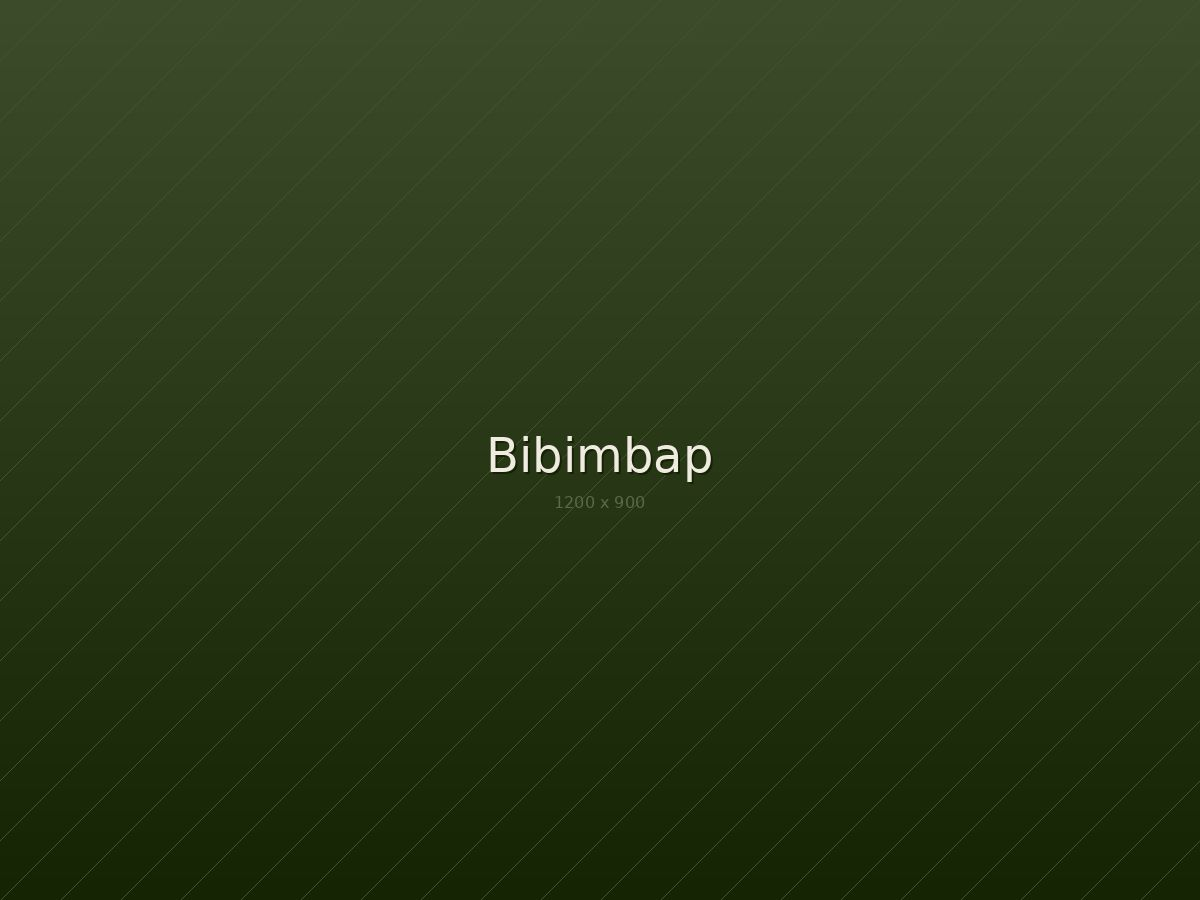
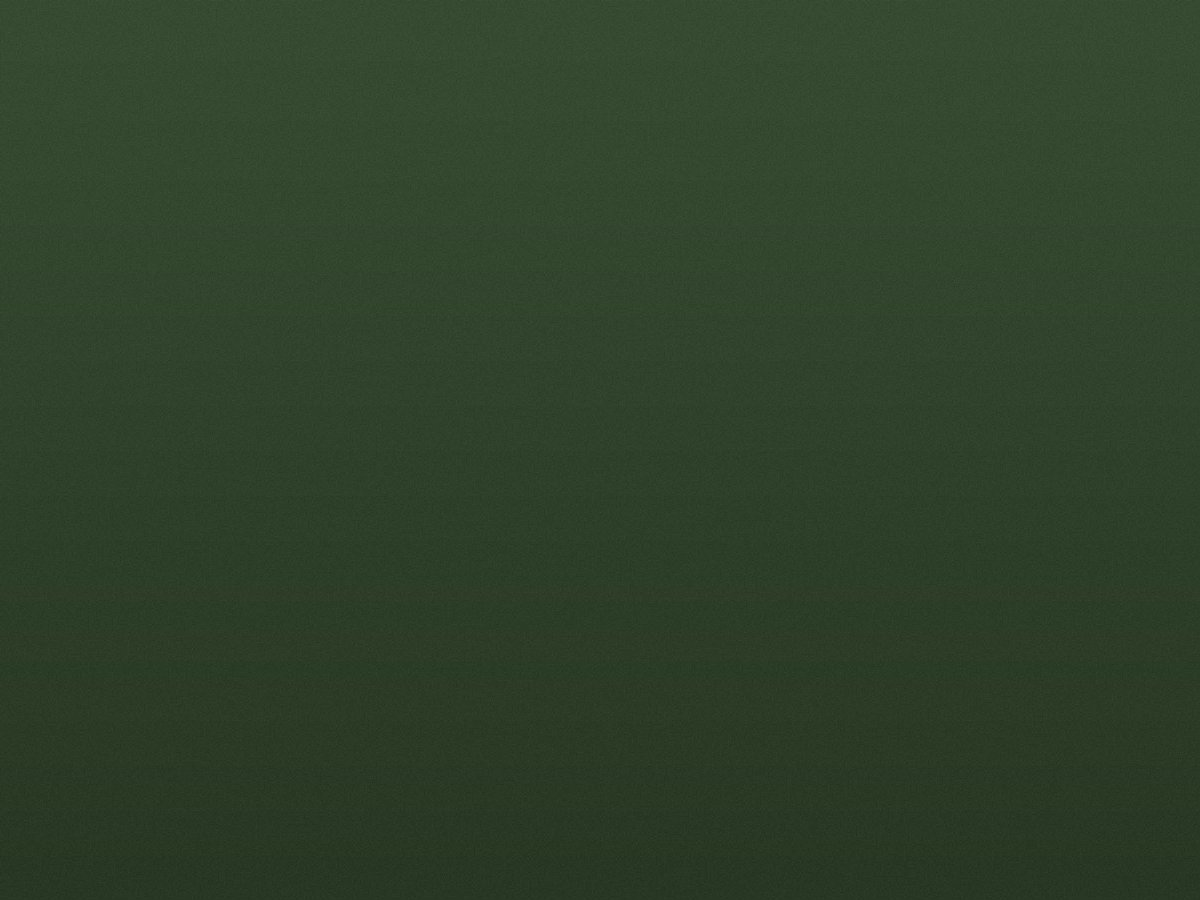
fix: critical CSS specificity + better placeholder images
ROOT CAUSE: * { margin: 0; padding: 0 } was outside @layer,
overriding ALL Tailwind utility classes (padding, margin, etc.)
because un-layered CSS has higher specificity than @layer in CSS.

- Move all custom base styles into @layer base
- Move utility classes into @layer utilities
- Remove the * { margin/padding: 0 } reset (Tailwind preflight handles it)
- Regenerate all placeholders as clean gradients (no text labels)
- Create proper logo (white text on transparent) for invert filter
- Create minimal icon shapes for cuisine categories

https://claude.ai/code/session_011vSXkvaHMkMXcfM511oVkU

diff --git a/app/globals.css b/app/globals.css
@@ -16,69 +16,75 @@
   --font-mono: "DM Mono", monospace;
 }
 
-:root {
-  --cream: #F0EBE0;
-  --cream2: #E4DDCF;
-  --sage: #8B9A6B;
-  --sage2: #6B7A50;
-  --olive: #5A6B3A;
-  --forest: #3A4A28;
-  --deep: #1E2D12;
-  --gold: #B8A455;
-  --gold2: #D4B840;
-  --ink: #1C2010;
+/* All custom styles in @layer base so they don't override Tailwind utilities */
+@layer base {
+  :root {
+    --cream: #F0EBE0;
+    --cream2: #E4DDCF;
+    --sage: #8B9A6B;
+    --sage2: #6B7A50;
+    --olive: #5A6B3A;
+    --forest: #3A4A28;
+    --deep: #1E2D12;
+    --gold: #B8A455;
+    --gold2: #D4B840;
+    --ink: #1C2010;
+  }
+
+  html {
+    scroll-behavior: smooth;
+    -webkit-text-size-adjust: 100%;
+  }
+
+  body {
+    background: var(--cream);
+    color: var(--forest);
+    font-family: var(--font-body);
+    overflow-x: hidden;
+    -webkit-font-smoothing: antialiased;
+    -moz-osx-font-smoothing: grayscale;
+  }
+
+  ::selection {
+    background: var(--olive);
+    color: var(--cream);
+  }
+
+  :focus-visible {
+    outline: 2px solid var(--gold2);
+    outline-offset: 2px;
+  }
+
+  ::-webkit-scrollbar {
+    width: 6px;
+  }
+  ::-webkit-scrollbar-track {
+    background: var(--cream2);
+  }
+  ::-webkit-scrollbar-thumb {
+    background: var(--sage);
+    border-radius: 3px;
+  }
 }
 
-* {
-  margin: 0;
-  padding: 0;
-  box-sizing: border-box;
-}
+/* Utilities in @layer utilities so they work alongside Tailwind */
+@layer utilities {
+  .scrollbar-hide {
+    -ms-overflow-style: none;
+    scrollbar-width: none;
+  }
+  .scrollbar-hide::-webkit-scrollbar {
+    display: none;
+  }
 
-html {
-  scroll-behavior: smooth;
-  -webkit-text-size-adjust: 100%;
-}
+  .scroll-progress {
+    transform-origin: left;
+    will-change: transform;
+  }
 
-body {
-  background: var(--cream);
-  color: var(--forest);
-  font-family: var(--font-body);
-  overflow-x: hidden;
-  -webkit-font-smoothing: antialiased;
-  -moz-osx-font-smoothing: grayscale;
-}
-
-::selection {
-  background: var(--olive);
-  color: var(--cream);
-}
-
-/* Focus styles for accessibility */
-:focus-visible {
-  outline: 2px solid var(--gold2);
-  outline-offset: 2px;
-}
-
-/* Custom scrollbar */
-::-webkit-scrollbar {
-  width: 6px;
-}
-::-webkit-scrollbar-track {
-  background: var(--cream2);
-}
-::-webkit-scrollbar-thumb {
-  background: var(--sage);
-  border-radius: 3px;
-}
-
-/* Hide scrollbar for horizontal scroll areas */
-.scrollbar-hide {
-  -ms-overflow-style: none;
-  scrollbar-width: none;
-}
-.scrollbar-hide::-webkit-scrollbar {
-  display: none;
+  .safe-bottom {
+    padding-bottom: env(safe-area-inset-bottom);
+  }
 }
 
 /* Custom cursor - desktop only */
@@ -97,19 +103,6 @@ body {
     animation-iteration-count: 1 !important;
     transition-duration: 0.01ms !important;
     scroll-behavior: auto !important;
-  }
-}
-
-/* Scroll progress bar */
-.scroll-progress {
-  transform-origin: left;
-  will-change: transform;
-}
-
-/* Safe area insets for iPhone notch */
-@supports (padding: env(safe-area-inset-bottom)) {
-  .safe-bottom {
-    padding-bottom: env(safe-area-inset-bottom);
   }
 }
 
